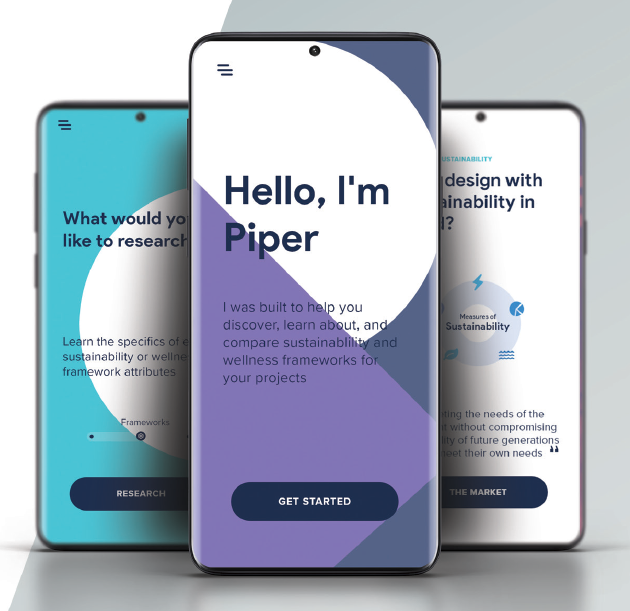
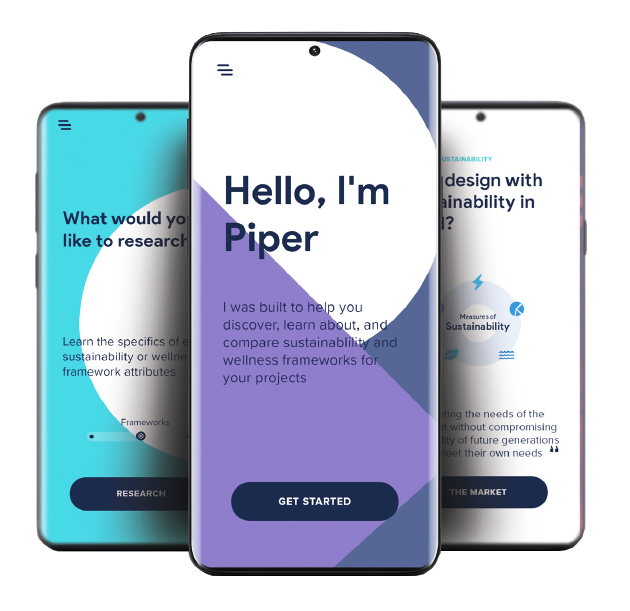
picture inserted and title moved

Changed region(s): [[0.0, 0.0, 1.0, 1.0], [0.0603, 0.1555, 0.3016, 0.1866]]

diff --git a/src/components/project/project.detail.mobile.scss b/src/components/project/project.detail.mobile.scss
@@ -38,9 +38,10 @@
     grid-row: 5 / 6;
     align-self: center;
     height: 70px;
-    margin-left: 40px;
+    margin-left: 10px;
     padding-bottom: 40px;
     padding: 10px;
+    z-index: 6;
   }
 
   .project__detail__infotable {
@@ -81,6 +82,51 @@
         font-size: 10px;
         line-height: 1px;
       }
+    }
+  }
+
+  .project__detail__pictureURL {
+    z-index: 1;
+    &__Piper {
+      background-image: url('../../assets/photo/project/piper/piper.PNG');
+      grid-column: 1 / -1;
+      grid-row: 1 / 6;
+      background-size: cover;
+      // z-index: 10;
+      // border: 10px red solid;
+    }
+
+    &__Turing {
+      background-image: url('../../assets/photo/project/1950grand/1950grand.png');
+      grid-column: 1 / -1;
+      grid-row: 1 / 6;
+      background-size: auto 100%;
+      background-position: -98px;
+      background-repeat: no-repeat;
+    }
+
+    &__1950grand {
+      background-image: url('../../assets/photo/project/1950grand/1950grand.png');
+      grid-column: 1 / -1;
+      grid-row: 1 / 7;
+    }
+
+    &__stamford {
+      background-image: url('../../assets/photo/project/firststamford/firststamford.png');
+      grid-column: 1 / -1;
+      grid-row: 1 / 7;
+    }
+
+    &__fordham {
+      background-image: url('../../assets/photo/project/fordham/fordham.jpg');
+      grid-column: 1 / -1;
+      grid-row: 1 / 7;
+    }
+
+    &__google {
+      background-image: url('../../assets/photo/project/google/google.jpg');
+      grid-column: 1 / -1;
+      grid-row: 1 / 7;
     }
   }
 

diff --git a/src/components/project/project.detail.js b/src/components/project/project.detail.js
@@ -36,6 +36,7 @@ export function ProjectDetail(data) {
       <div className="project__detail__summary">
         <ProjectSummary {...data.description } />
       </div>
+      <div className={`project__detail__pictureURL__${data.title}`} />
       <div className="project__detail__image__extras">
       </div>
     </div>
